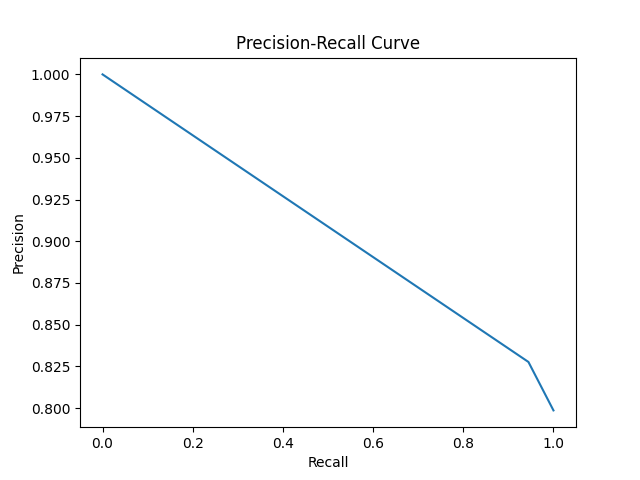
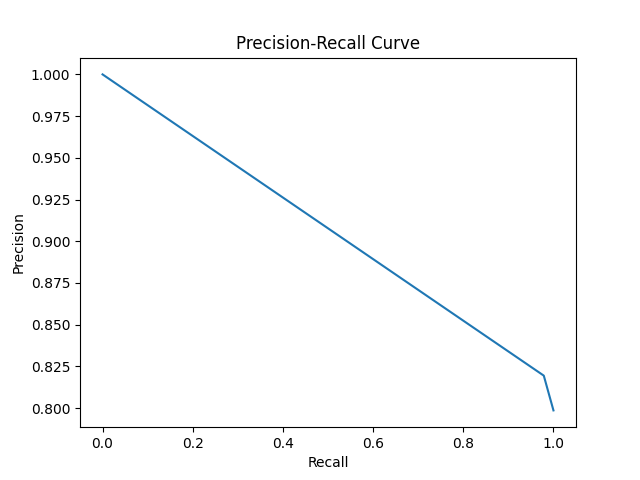
Tilføjet readMe til plotting, config og justeringer til plotting directory

diff --git a/fl_backend/plotting/plot_methods/loss_accuracy_plot.py b/fl_backend/plotting/plot_methods/loss_accuracy_plot.py
@@ -1,0 +1,44 @@
+import matplotlib.pyplot as plt
+
+
+def loss_over_time_plot(train_losses, train_accuracies):
+
+    fig, axes = plt.subplots(1, 2, figsize=(10, 4))
+
+    axes[0].plot(train_losses, label="Train Loss")
+    axes[0].set_title("Loss")
+    axes[0].set_xlabel("Epoch")
+    axes[0].set_ylabel("Loss")
+    axes[0].legend()
+
+    axes[1].plot(train_accuracies, label="Train Acc")
+    axes[1].set_title("Accuracy")
+    axes[1].set_xlabel("Epoch")
+    axes[1].set_ylabel("Accuracy")
+    axes[1].legend()
+
+    plt.tight_layout()
+    plt.savefig("fl_backend/plotting/saved_plots/loss_curve.png", dpi=300)
+    plt.close()
+
+'''
+How to interpret : 
+    - Accuracy = Hvor mange predictions er korrekte
+        - Så høj accuraccy betyder mange af predictions er korrekte 
+    - Loss = Hvor forkerte predictionerne er
+        - Så lav loss betyder at modellen bliver mere sikker på dens korrekte predictions 
+
+    Så hvis : 
+    - Accuracy er høj og loss er lav : 
+        - Så er modellen god, fordi de følger hindanden
+    
+    - Accuracy er lav og loss er høj : 
+        - Så er det under fitting og betyder at modellen ikke lærer nok
+        - Så skal learning rate justeres 
+    
+    BONUS!!!
+    - Train accuracy er høj, train loss er lav, validation accuracy er lav og validation loss er høj
+        - Så betyder det overfitting og modellen lærer alt for specifikt til det brugte dataset 
+        - Så skal man bruge dropout eller weight decay så den ikke vægter for meget på en specific neuron
+        - Lige nu plotter vi ikke validation stats så dette vises ikke i dette diagram 
+'''

diff --git a/fl_backend/plotting/plot_methods/confusion_matrix_plot.py b/fl_backend/plotting/plot_methods/confusion_matrix_plot.py
@@ -1,6 +1,5 @@
 import matplotlib.pyplot as plt
-import numpy as np
-from sklearn.metrics import confusion_matrix, precision_recall_curve
+from sklearn.metrics import confusion_matrix
 import seaborn as sns
 
 def confusion_matrix_plot(y_true, y_pred):
@@ -83,23 +82,3 @@ How to interpret :
         - Ofte mener folk at, i dette scenarie, at false positives er bedere end false negatives
         - Så hvis FN var meget høj, ville det være et STORT problem for os
 '''
-
-
-'''
-- Det her virker virker kun med probabilies, ikke 0/1 predictions
-- Men det skal vise trade-off mellem precision og recall
-- Det skal hjælpe dig med at adjust til threshhold til hvornår modellen predicter noget er en anomaly
-- Så HVIS :
-    - Recall er høj og precision er lav, skal threshholden være lavere
-    - Recall er lav og precision er høj, skal thredhold være højere
-    - Kurven skal så være meget høj, falde meget langsomt og dække et stort område
-'''
-def precision_recall_plot(y_true, y_pred):
-    precision, recall, thresholds = precision_recall_curve(y_true, y_pred)
-
-    plt.plot(recall, precision)
-    plt.xlabel("Recall")
-    plt.ylabel("Precision")
-    plt.title("Precision-Recall Curve")
-    plt.savefig("fl_backend/plotting/saved_plots/percision_recall_plot.png")
-    plt.close()

diff --git a/fl_backend/training/train.py b/fl_backend/training/train.py
@@ -13,8 +13,11 @@ def train_model(model, trainloader, task, training_config: dict ,  device):
     total_correct = 0
     total_examples = 0
     
+    train_losses = []
+    train_accuracies = []
 
     for _ in range (epochs):
+
         for batch in trainloader:
             optimizer.zero_grad()
 
@@ -28,12 +31,21 @@ def train_model(model, trainloader, task, training_config: dict ,  device):
             total_loss += loss.item() * batch_size
             total_correct += metrics["correct"]
             total_examples += batch_size
+        
+        epoch_loss = total_loss / total_examples
+        epoch_accuracy = total_correct / total_examples
+
+        train_losses.append(epoch_loss)        
+        train_accuracies.append(epoch_accuracy)
+
 
 
     return {
         "loss": total_loss / total_examples,
         "accuracy": total_correct / total_examples,
         "num_examples": total_examples,
+        "train_losses": train_losses,
+        "train_accuracies": train_accuracies,
     }
 
 

diff --git a/fl_backend/main.py b/fl_backend/main.py
@@ -8,8 +8,7 @@ from models.registry import create_model
 from tasks.registry import create_task
 from training.train import train_model
 from training.evaluate import evaluate_model
-from plotting.confusion_matrix_plot import confusion_matrix_plot
-from plotting.precision_recall_plot import precision_recall_plot
+from plotting.plotting_config import plot_diagrams
 
 
 def main():
@@ -54,8 +53,7 @@ def main():
     )
     print(f"Evaluation results: {eval_results}")
 
-    confusion_matrix_plot(eval_results["targets"], eval_results["preds"])
-    precision_recall_plot(eval_results["targets"], eval_results["preds"])
+    plot_diagrams(eval_results["targets"], eval_results["preds"], train_results["train_losses"], train_results["train_accuracies"])
 
 if __name__ == "__main__":
     main()

diff --git a/fl_backend/plotting/plotting_config.py b/fl_backend/plotting/plotting_config.py
@@ -1,0 +1,8 @@
+from plotting.plot_methods.confusion_matrix_plot import confusion_matrix_plot
+from plot_methods.precision_recall_plot import precision_recall_plot
+from plot_methods.loss_accuracy_plot import loss_over_time_plot
+
+def plot_diagrams(targets, preds, train_losses, train_accuracies):
+    #Udvid denne når den nye config struktur er blevet implementeret så det hele passer
+    confusion_matrix_plot(targets, preds)
+    loss_over_time_plot(train_losses, train_accuracies)

diff --git a/fl_backend/plotting/Plotting_README.md b/fl_backend/plotting/Plotting_README.md
@@ -1,0 +1,68 @@
+# Model Evaluation and Plotting Setup
+
+Når der bliver tilføjet en ny plotting metode, skal man i denne fil skrive : 
+- Hvilke input metoden har brug for
+- Hvilken del af modellen skal generer værdierne og om nogle returns skal ændres 
+- Hvordan den skal læses?
+
+
+## Confusion Matrix
+
+For at kunne beregne en confusion matrix skal evaluation-metoden returnere følgende:
+
+- `y_true`
+- `y_pred`
+
+### Krav
+
+- Begge tensors skal indeholde værdier for **hver batch**
+- De skal repræsentere:
+  - `y_true`: de rigtige labels
+  - `y_pred`: modellens predictions
+
+### Return format
+
+Disse værdier skal returneres sammen med de andre metrics fra evaluation-metoden.
+
+---
+
+## Loss Over Time Plot
+
+Training-metoden skal returnere:
+
+- `train_losses`
+- `train_accuracies`
+
+### Krav
+
+- Værdierne skal beregnes **for hver epoch**
+- De skal gemmes i arrays eller lister
+
+### Return format
+
+Disse værdier skal returneres sammen med de øvrige træningsresultater.
+
+### Fremtidig udvidelse
+
+Det vil senere være relevant også at tilføje:
+
+- `val_losses`
+- `val_accuracies`
+
+Dette gør det muligt at:
+
+- analysere generalisering
+- identificere overfitting
+
+---
+
+## Plotting Configuration
+
+Plotting-systemet er endnu ikke fuldt udviklet, men tanken er :
+
+### Struktur
+
+- Specifikke plotting-metoder placeres i mappen:
+
+```python
+plot_methods/
